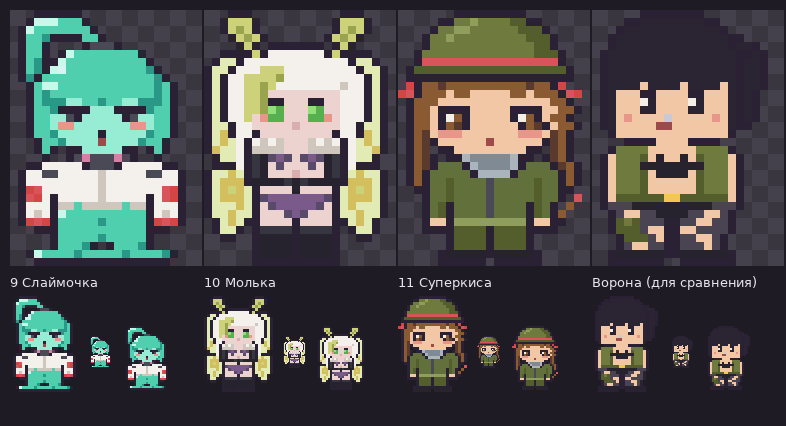
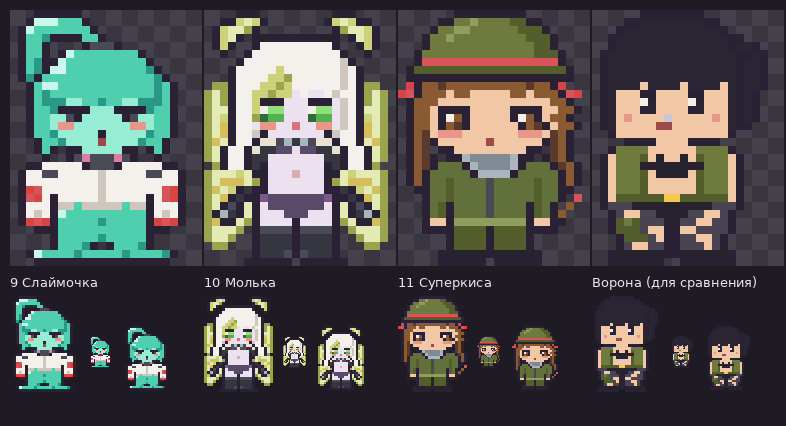
Moth girl redrawn: cuter, four arms, closer to the reference
Claude-Session: https://claude.ai/code/session_018urhzN5ye6LSdpgHs5FJRe

Changed region(s): [[0.2443, 0.0305, 0.5191, 0.6103], [0.2443, 0.7019, 0.4885, 0.9155], [0.3359, 0.5798, 0.3969, 0.6408]]

diff --git a/drafts/workers-slime-moth-kisa.js b/drafts/workers-slime-moth-kisa.js
@@ -1,12 +1,12 @@
 // Черновик сотрудников: Слаймочка (9), Молька (10), Суперкиса (11). В игру ещё не вставлены, ждут одобрения. Перки и скиллы ещё обсуждаются (docs/employees.md, раздел «План: Слаймочка, Молька, Суперкиса»).
 // Спрайты 23×32, RLE как в game/index.html. Превью drafts/slime-moth-kisa-preview.png (справа для сравнения Ворона).
-// Новые цвета в PAL (русские буквы): т: '#4fcfae' (слайм), м: '#2a9886' (тень слайма), н: '#c8f8ea' (блик слайма), п: '#97ecd4' (лицо слайма), в: '#e2ebb4' (крылья Мольки)
+// Новые цвета в PAL (русские буквы): т: '#4fcfae' (слайм), м: '#2a9886' (тень слайма), н: '#c8f8ea' (блик слайма), п: '#97ecd4' (лицо слайма), в: '#e2ebb4' (крылья Мольки), и: '#ece2ef' (кожа Мольки, тот же цвет, что и в drafts/workers.js)
 
 // ===== Слаймочка: девочка из бирюзовой слизи, хвост-капля на макушке с чёрной резинкой, сонные глаза с ресницами, румянец, ротик «о». Чёрный ошейник с розовым, белая укороченная куртка с красными полосами на рукавах и чёрными нашивками на плечах, руки на бёдрах. Круглый животик, ноги стекают в лужицу =====
   const SLIME = ['3.6k14.', '2.k3н3тk13.', '.kн7тk12.', '.k2тм4k2тk11.', '.k2тk4.k3gk9.', '.k2тk.kн8тk6.', '.kтм2kн10тk5.', '.kтмkн[10тмk4.', '.kмk14тмk3.', '2.kт2н12тмтk2.', '2.kтм13тмтk2.', '2.kт3м2п2тм2т2п3мтk2.', '2.k2тм4k3п4kм2тk2.', '2.k2т2пgk5пkg2п2тk2.', '2.k2тп2c7п2cп2тk2.', '2.k2тм5пk5пм2тk2.', '3.k2тм4пm4пм2тk3.', '3.kтk.2k5п2k.kтk3.', '4.k2.kgz3gzgk2.k4.', '2.2k5Wk3gk5W2k2.', '.k2W2g5WD5W2g2Wk.', '.k9WD9Wk.', '.k$R7WD7WR$k.', '.kR$Wk5WD5WkWR$k.', '.k3Wk2Dт5Dт2Dk3Wk.', '.kWDWkн10тkWDWk.', '.k$R$k5тм5тk$R$k.', '3.3k11т3k3.', '5.k5тм5тk5.', '5.k3тмk.k3тмk5.', '2.kн4тм5тм4тмk2.', '3.17k3.'];
 
-// ===== Молька: девочка-моль. Белые волосы с зелёной прядью на глаз, зелёные пушистые усики, светящиеся зелёные глаза, румянец. Белый пушистый воротник, длинные чёрные перчатки, руки сложены перед собой. Фиолетовые лифчик и трусики, чёрные чулки. Сзади бледно-зелёные крылья с золотыми прожилками и «глазками» =====
-  const MOTH = ['3.3k11.3k3.', '2.k3лk9.k3лk2.', '2.kльлk9.kльлk2.', '3.kльлk7.kльлk3.', '4.kлk.7k.kлk4.', '2.4kлk7Wkл4k2.', '.k2вk13Wk2вk.', 'k2вk3W3л9Wk2вk', 'kвk2W4ль10Wkвk', 'kвk2W2льл8WD2Wkвk', 'kвk2W2ль9I3Wkвk', 'kвk2W2ль2k3I2k2I3Wkвk', 'kвk2W2ль;:3I;:2I3Wkвk', 'kвk2WлIc2:3I2:cI3Wkвk', 'k2вk2W5Ii5I2Wk2вk', 'kвYk2Wk9Ik2WkYвk', 'kвYвWkWDWD3IDWDWkWвYвk', 'kY2вWk4D3I4DkW2вYk', '.k2вWkGbdPdIdPdbGkW2вk.', '.3kWkGbId3IdIbGkW3k.', 'k2вYвkGb3Ii3IbGkвY2вk', 'kв3Yk4bGbG4bk3Yвk', 'kвYлYвk4Ib4IkвYлYвk', 'kв3Yвkd7Pdkв3Yвk', 'k3вYвkId5PdIkвY3вk', 'k2вY2вk3IdPd3Ik2вY2вk', '.kвYв2k4Ik4I2kвYвk.', '.k2вk.k4Gk4Gk.k2вk.', '2.2k2.k4bk4bk2.2k2.', '6.k4bk4bk6.', '6.k4bk4bk6.', '6.11k6.'];
+// ===== Молька: милая девочка-моль с четырьмя руками. Белые длинные волосы с зелёной прядью, зелёные усики-листочки на чёрных заколках, большие зелёные глаза с бликами, румянец. Верхние руки в чёрных перчатках сложены под подбородком, нижние тонкие руки насекомого у бёдер. Белый пушистый воротник, фиолетовые лифчик и трусики, чёрные чулки. Сзади бледно-зелёные крылья с золотыми прожилками и «глазками» =====
+  const MOTH = ['4.3k9.3k4.', '2.2kлвлk7.kлвл2k2.', '.kл2вьk9.kь2влk.', '.kлвk.kb7kbk.kвлk.', '.kлk2.k9Wk2.kлk.', '2.k2.k11Wk2.k2.', '4.k12WDk4.', '3.k5Wл7WDWk3.', '3.k4W2ль6WDWk3.', '.2ьk3W2льл6WDWk2ь.', 'ьвьk2W2ль2лиW2иWD2Wkьвь', 'ьвьk2Wл3k3и3kиDWkьвь', 'ь2вk2Wлw2;3иw2;иDWk2вь', 'ьвлk2Wь/2:3и/2:иDWkлвь', 'ьвYk2Wи2c2иE2и2cиDWkYвь', 'ьвYk2WDk7иkD2WkYвь', 'ьYвk2Wk2xgaGag2xk2WkвYь', 'ьвk2Wkx2G2dи2d2Gxk2Wkвь', 'ьвk2Wk2G7и2Gk2Wkвь', '.ьk2WkGk7иkGk2Wkь.', 'ь3влв2k3иi3и2kвл3вь', 'ьв3Yвьk7иkьв3Yвь', 'ьYвлkG2k7и2kGkлвYь', 'ьвYkG2kP7dP2kGkYвь', 'ьвkgkвkи7dиkвkgkвь', 'ьkaGkвk3и3d3иkвkGakь', 'ьY2kвьk4иk4иkьв2kYь', 'ь3вь.k4gk4gk.ь3вь', 'ь2вь2.k4Gk4Gk2.ь2вь', '.2ь3.k4Gk4Gk3.2ь.', '6.k3Ggkg3Gk6.', '5.6k.6k5.'];
 
 // ===== Суперкиса: тёмно-зелёная каска с красной полосой, каштановые хвостики с красными бусинами, большие карие глаза, румянец. Зелёная стёганая куртка с серым высоким воротником, зелёные штаны, чёрные ботинки. В руке кисточка с красной краской («мая картина») =====
   const SUPERKISA = ['7.9k7.', '5.2k2oL4o2O2k5.', '4.k2o2L6o3Ok4.', '3.k2oL9o3Ok3.', '3.k13o2Ok3.', '2.k14o3Ok2.', '2.k17Rk2.', '.k19Ok.', '.21k.', '.$k2CB10CB2Ck$2.', '$Rk3Cs2C5s2Cs3CkR$', '.k3C14s2Ck.', '.k2Cs4k5s4k2s2Ck', '.k2CskwCk5skwCks2Ck.', '.k2CskCBk6skCBks2Ck', '.kCBs3c7s3csBCk.', '.kCBk6sm6skBCk.', '.kCB.2k9s2k.BCk.', '.kCBk.2ka5Aa2k.kBCk.', '.kCBk3Mka4Aak3MkBCk', '.kCk5Mk4ak5MkCk', '.kCk2MO4Mg5MO2MkCk', '2.2k2MO4Mg5MO2M2k.', '3.k2MO4Mg5MO2Mk.R', '3.kMOk4Mg4MkOMk.C.', '3.kMOk4Mg4MkOMkC2.', '3.k2sk9Lk2s2k2.', '3.4k4Ok4O4k3.', '6.k4Ok4Ok6.', '6.k4Ok4Ok6.', '5.k5bk5bk5.', '5.6k.6k5.'];

diff --git a/docs/employees.md b/docs/employees.md
@@ -149,8 +149,8 @@
 
 ## План: Слаймочка, Молька, Суперкиса (спрайты ждут одобрения)
 
-Спрайты в `drafts/workers-slime-moth-kisa.js`, превью `drafts/slime-moth-kisa-preview.png` (справа для сравнения Ворона). Новые цвета в `PAL`: т, м, н, п (слайм), в (крылья Мольки). Имена 9 и 10 можно менять, имя Суперкисы не меняем. Перки, скиллы, статы и когда приходят, ещё обсуждаются.
+Спрайты в `drafts/workers-slime-moth-kisa.js`, превью `drafts/slime-moth-kisa-preview.png` (справа для сравнения Ворона). Новые цвета в `PAL`: т, м, н, п (слайм), в (крылья Мольки), и (кожа Мольки, тот же цвет, что в `drafts/workers.js`). Имена 9 и 10 можно менять, имя Суперкисы не меняем. Перки, скиллы, статы и когда приходят, ещё обсуждаются.
 
 - **Слаймочка** (9, референс от игрока): девочка из бирюзовой слизи. Хвост-капля на макушке с чёрной резинкой, сонные глаза, румянец, ротик «о». Чёрный ошейник, белая укороченная куртка с красными полосами и чёрными нашивками, руки на бёдрах, круглый животик, ноги стекают в лужицу. Надпись с референса заменена на «Slime now!» (её фраза, пригодится для названия скилла).
-- **Молька** (10, девочка-насекомое, референс от игрока): белые волосы с зелёной прядью, зелёные усики, светящиеся зелёные глаза. Белый пушистый воротник, длинные чёрные перчатки, фиолетовые лифчик и трусики, чёрные чулки. Сзади бледно-зелёные крылья с золотыми прожилками и «глазками».
+- **Молька** (10, девочка-насекомое, референс от игрока): милая, с четырьмя руками. Белые длинные волосы с зелёной прядью, зелёные усики-листочки на чёрных заколках, большие зелёные глаза, румянец. Верхние руки в чёрных перчатках сложены под подбородком, нижние тонкие руки насекомого у бёдер. Белый пушистый воротник, фиолетовые лифчик и трусики, чёрные чулки. Сзади бледно-зелёные крылья с золотыми прожилками и «глазками».
 - **Суперкиса** (11, референс от игрока, мем «мая картина»): тёмно-зелёная каска с красной полосой, каштановые хвостики с красными бусинами, большие карие глаза. Зелёная стёганая куртка с серым воротником, зелёные штаны, ботинки, в руке кисточка с красной краской.
